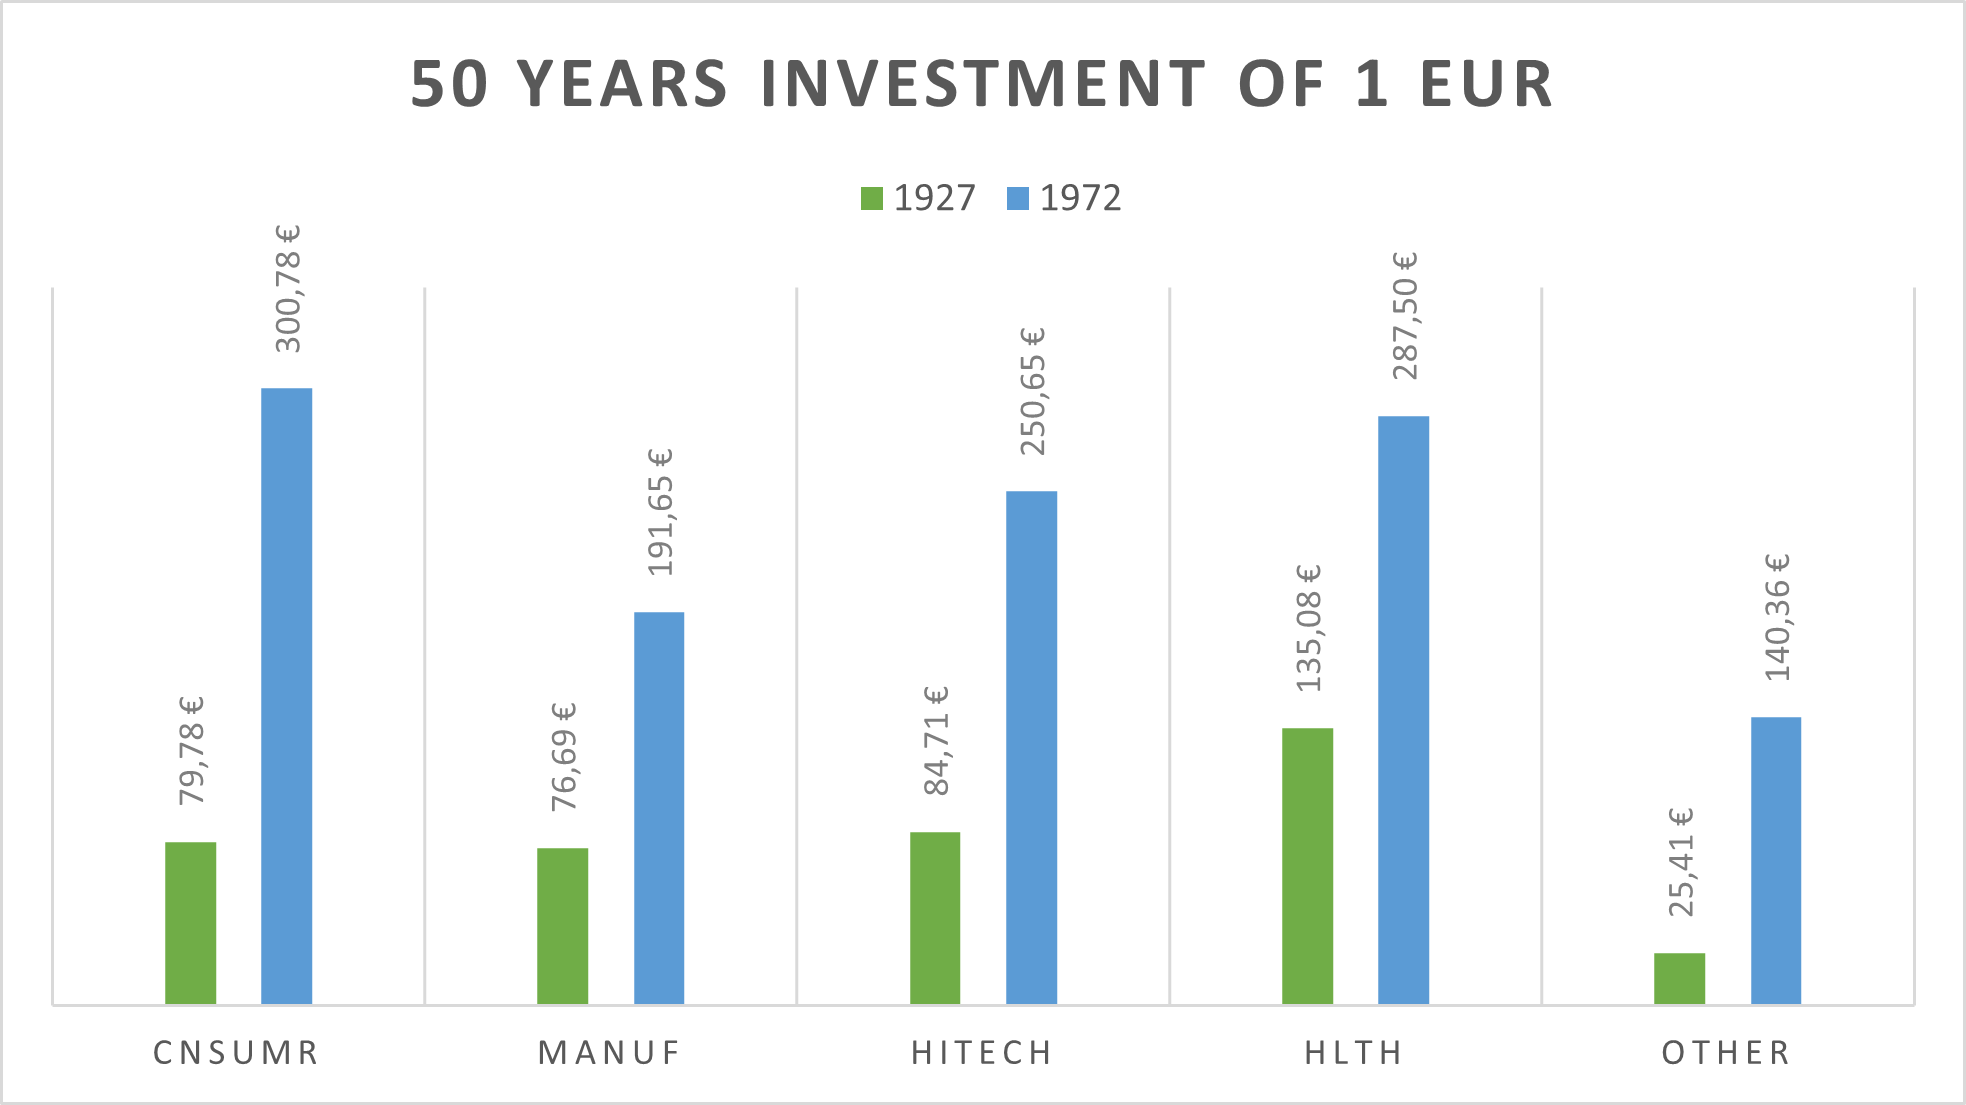
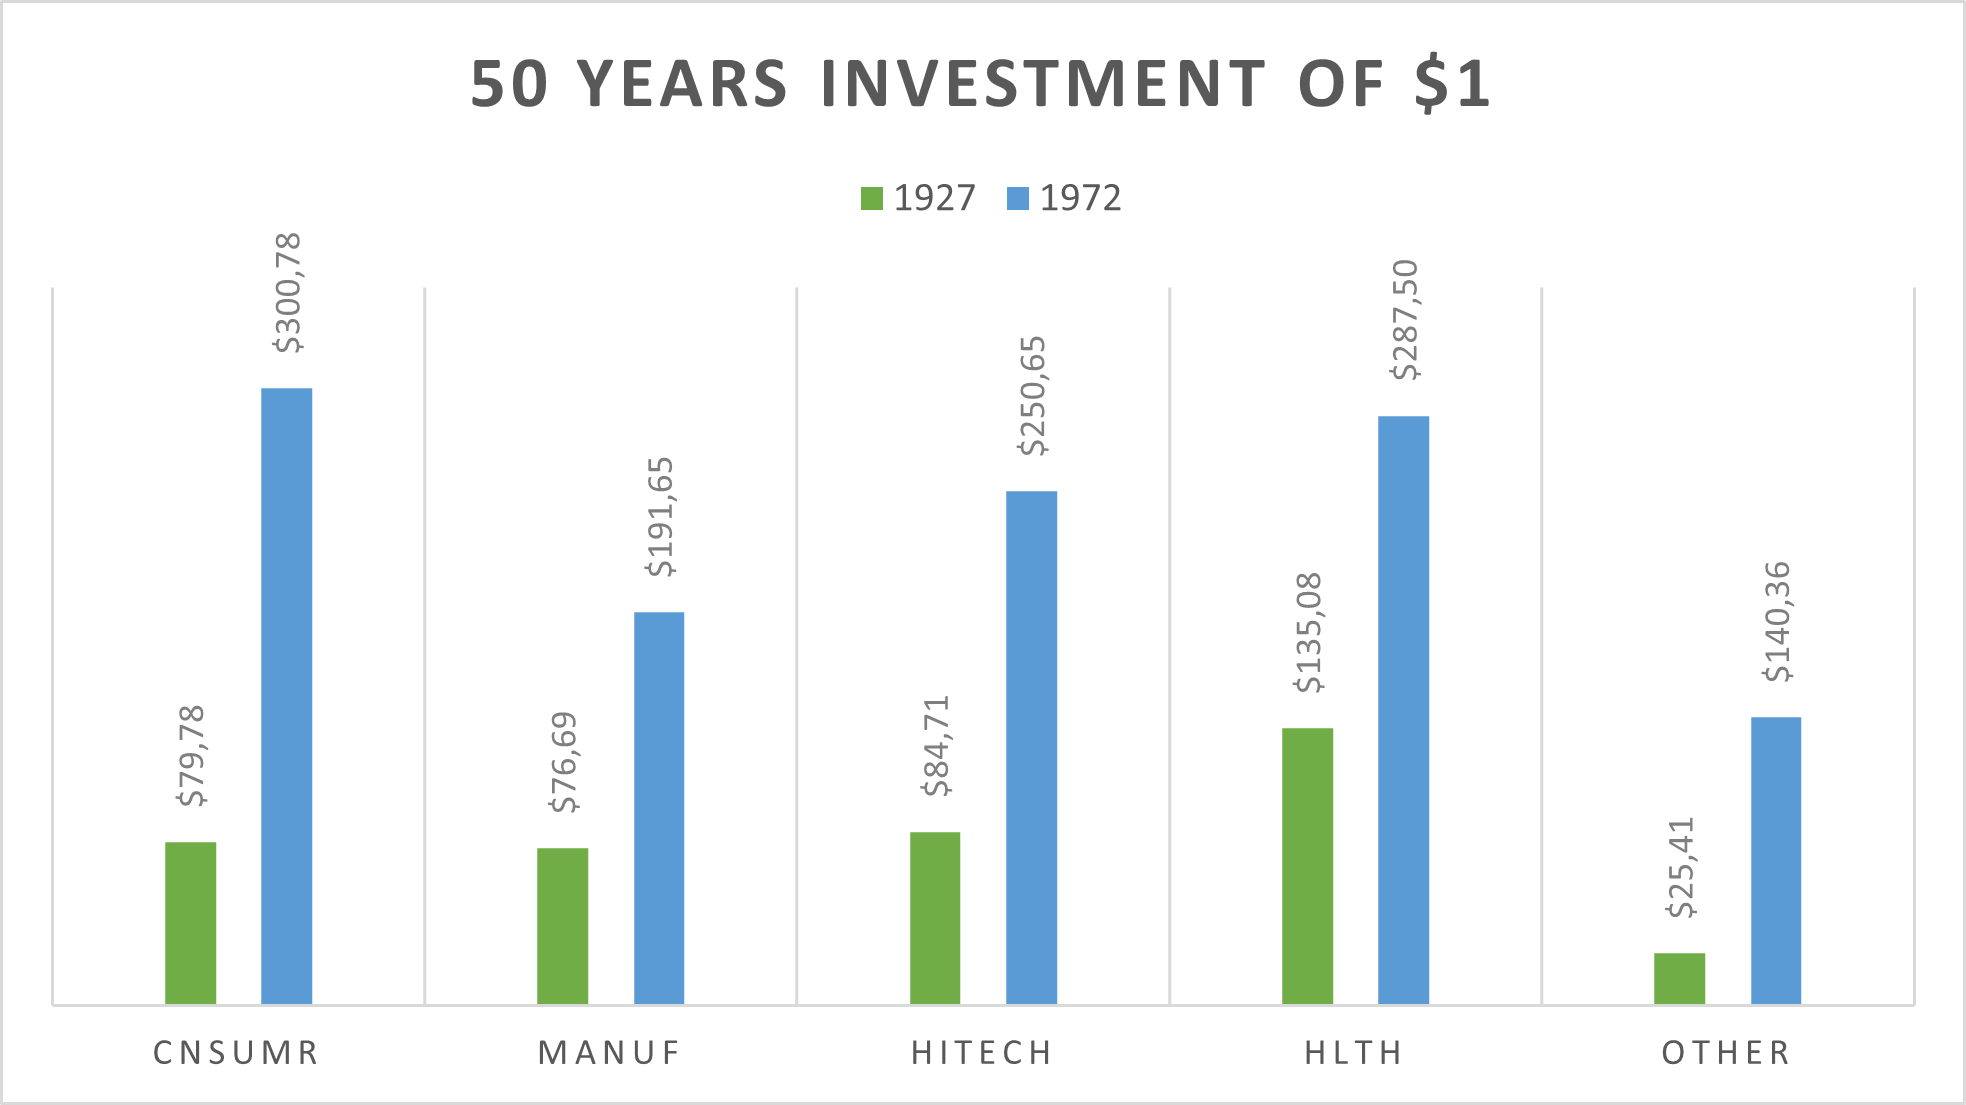
changing currency in graphs

diff --git a/blog/2023-04-05-wealth/index.md b/blog/2023-04-05-wealth/index.md
@@ -131,13 +131,13 @@ If we just check the output for a last 5 years investment, the graphs look like:
 
 #### Gain if investing for 5 years starting 1927, 1972 or 2018
 
-<img className={styles.product_screenshot} src="/img/blog/wealth/5Y.png" />
+<img className={styles.product_screenshot} src="/img/blog/wealth/5Y.PNG" />
 
 
 
 #### Gain if investing for 50 years starting in 1927 or 1972
 
-<img className={styles.product_screenshot} src="/img/blog/wealth/50Y.png" />
+<img className={styles.product_screenshot} src="/img/blog/wealth/50Y.PNG" />
 
 
 #### Gain if investing forever
@@ -146,7 +146,7 @@ If we just check the output for a last 5 years investment, the graphs look like:
 *Our favorite holding period is forever.*
 -- <cite>[Warran Buffett] </cite> 
 
-<img className={styles.product_screenshot} src="/img/blog/wealth/Forever.png" />
+<img className={styles.product_screenshot} src="/img/blog/wealth/Forever.PNG" />
 
 
 
